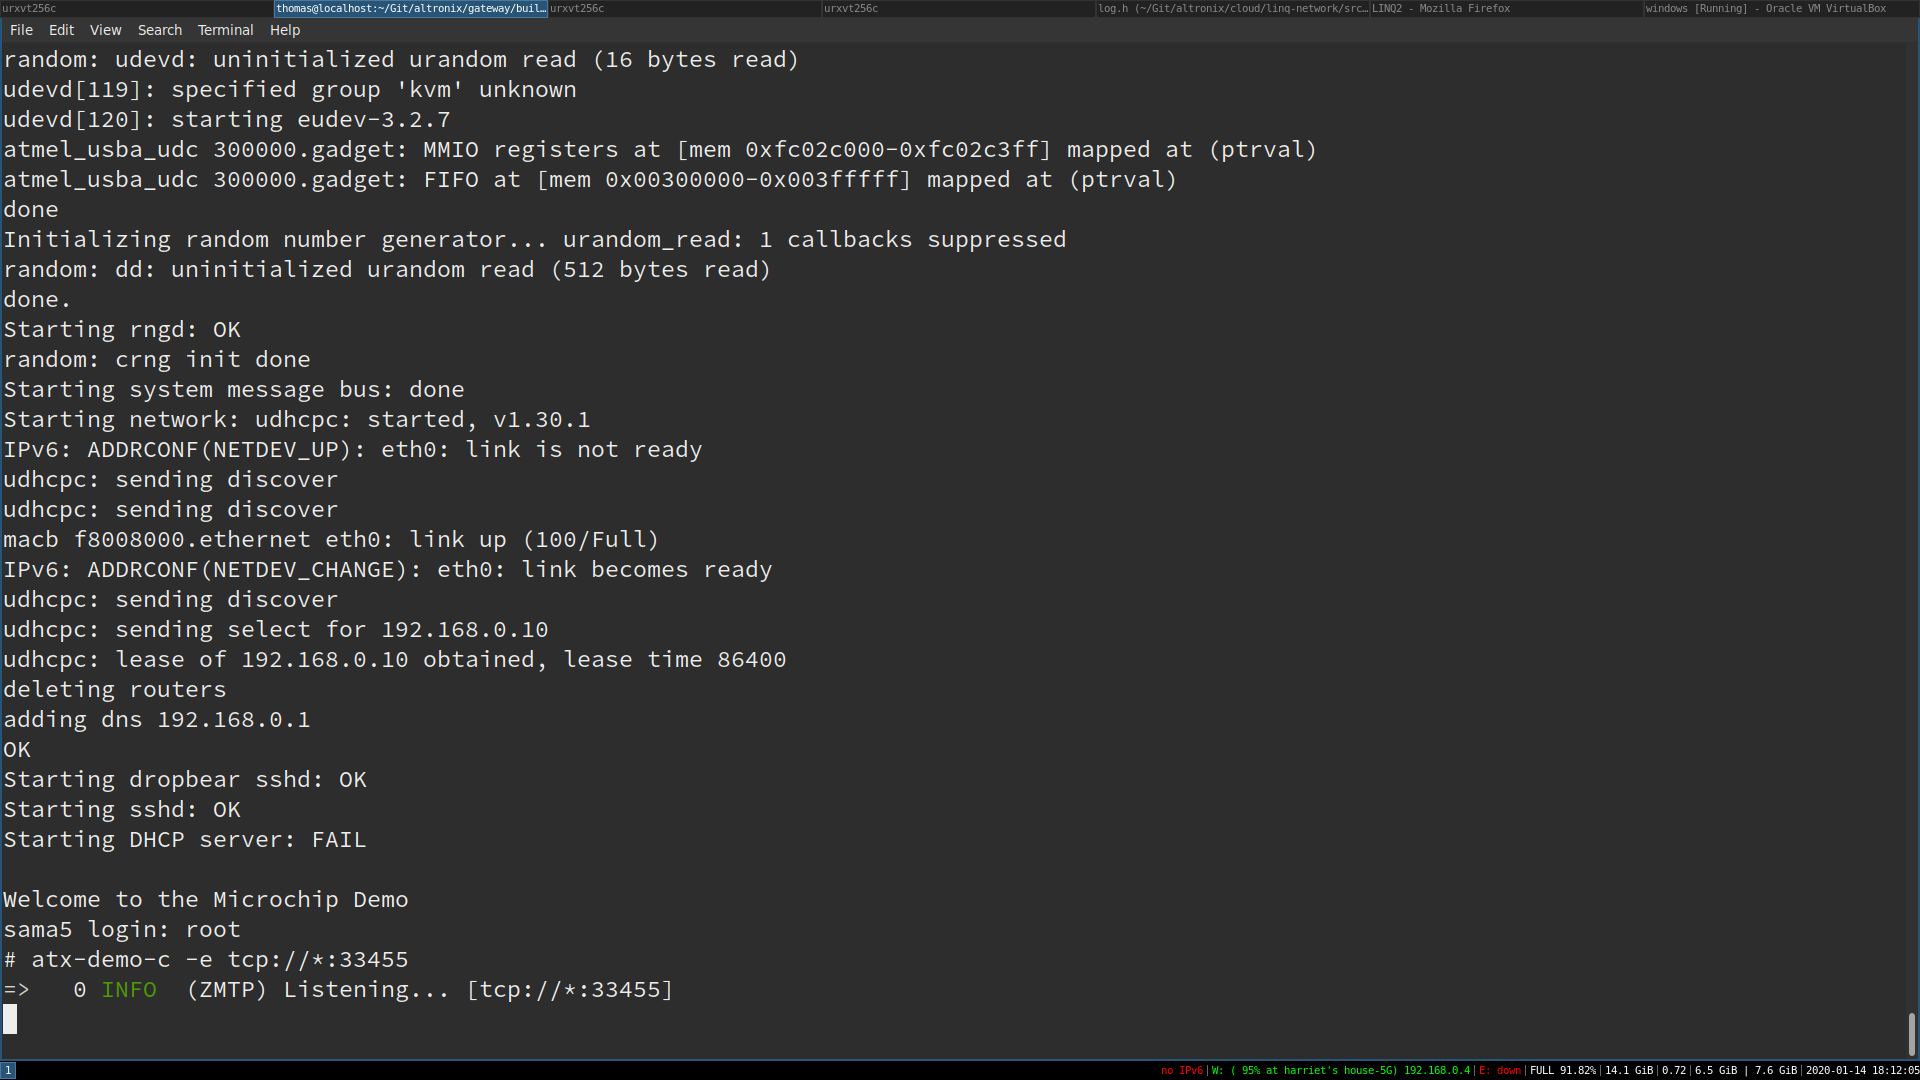
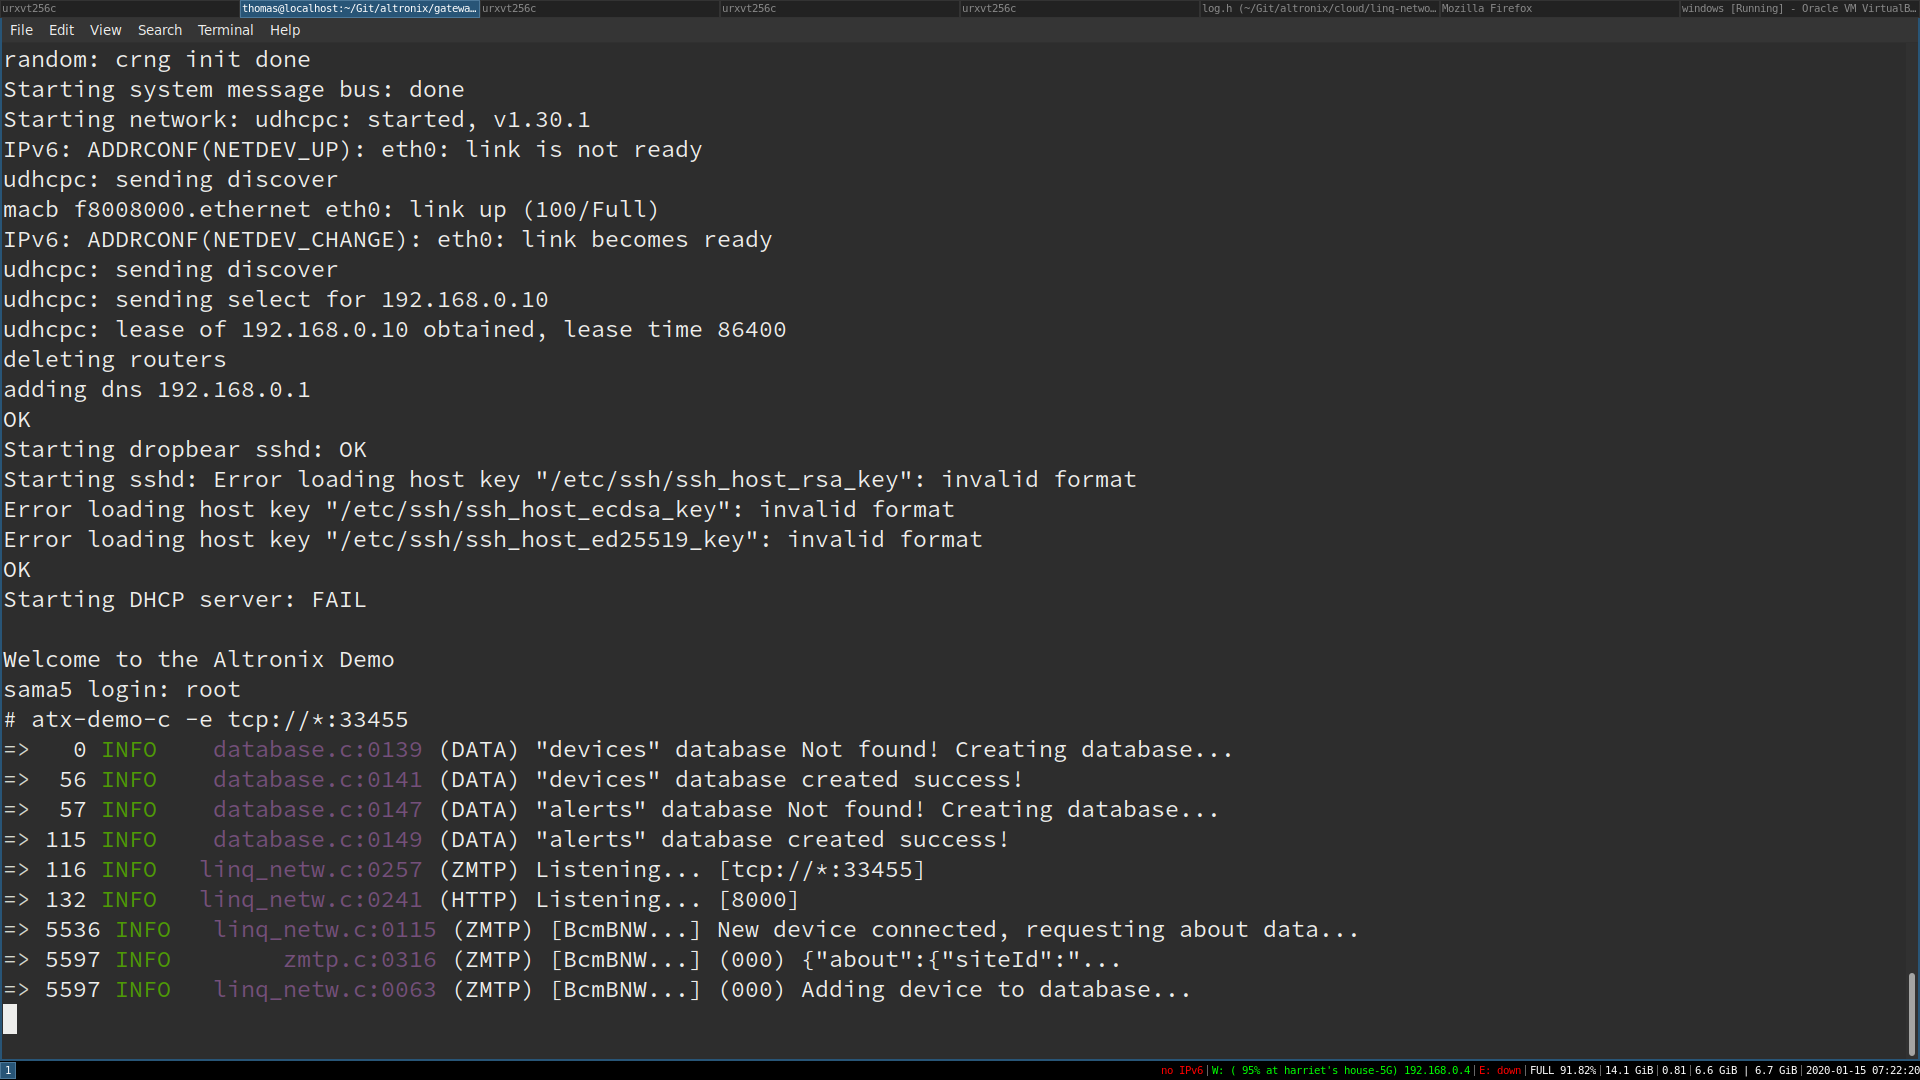
fixed release mode logging

diff --git a/src/log.h b/src/log.h
@@ -119,10 +119,8 @@ extern "C"
 #define BACKGROUND_LIGHT_CYAN "\x1b[106m"
 #define BACKGROUND_LIGHT_WHITE "\x1b[107m"
 
-#define FMT_STRING_DEBUG                                                       \
+#define FMT_STRING                                                             \
     WHITE "=> " RESET "%3d %s%s " RESET MAGENTA "%12s:%04d " RESET
-
-#define FMT_STRING WHITE "=> " RESET "%3d %s%s " RESET
 
     static const char* level_names[] = { "TRACE", "DEBUG", "INFO ",
                                          "WARN ", "ERROR", "FATAL" };
@@ -137,20 +135,14 @@ extern "C"
         file = flen > 1 ? &file[flen + 1] : file;
         va_list args;
 
-        // clang-format off
-#ifdef NDEBUG
-        fprintf(stdout, FMT_STRING, sys_tick(), level_colors[level], level_names[level]);
-#else
         fprintf(
             stdout,
-            FMT_STRING_DEBUG,
+            FMT_STRING,
             sys_tick(),
             level_colors[level],
             level_names[level],
             file,
             line);
-#endif
-        // clang-format on
 
         va_start(args, fmt);
         vfprintf(stdout, fmt, args);
